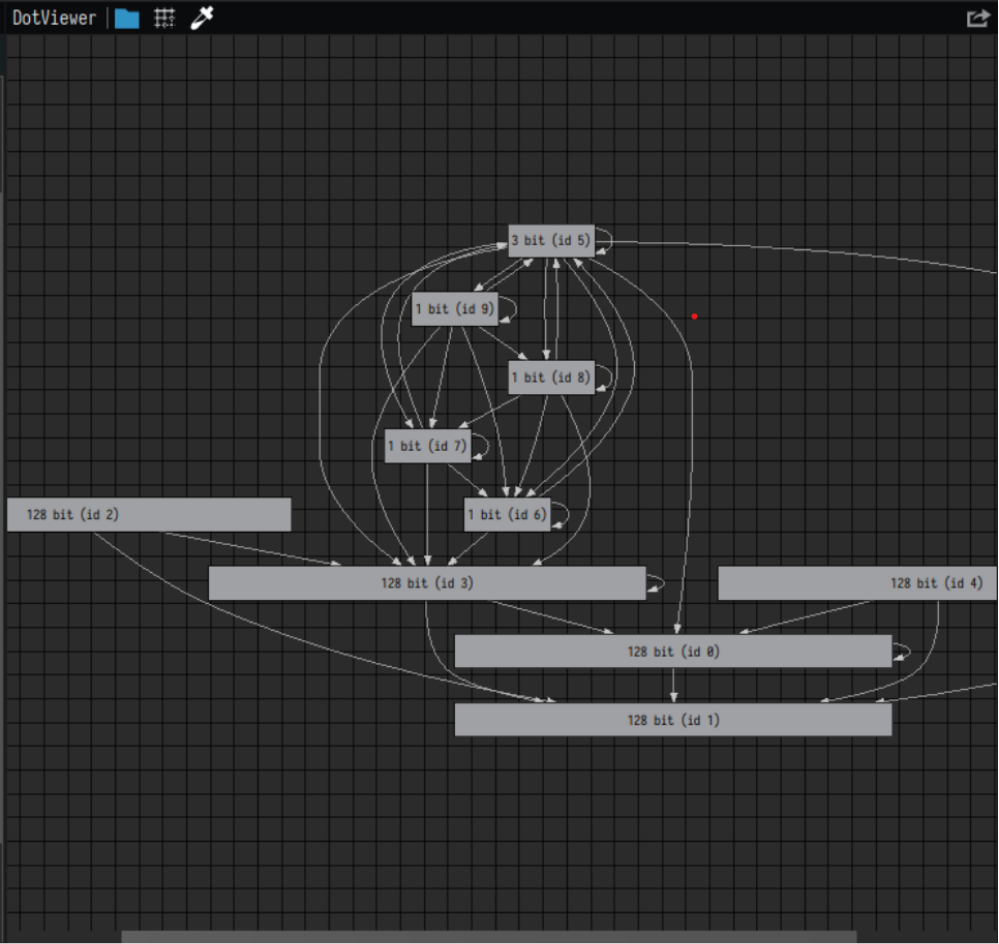
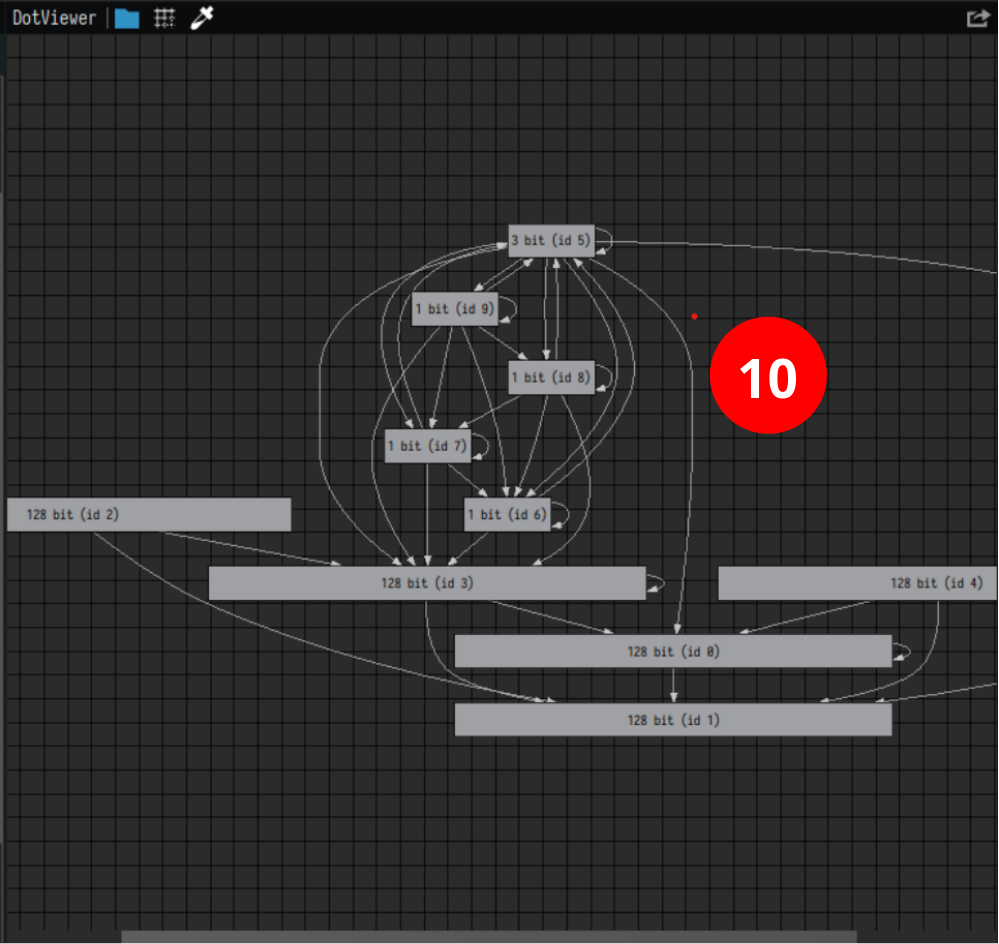
Minor fixes in screenshot CSS style

Changed region(s): [[0.7137, 0.3379, 0.8378, 0.4608]]

diff --git a/documentation/hal_screenshot.html b/documentation/hal_screenshot.html
@@ -34,17 +34,22 @@
     counter-increment: item;
     margin-bottom: 8px;
   }
-  li:before {
-    margin-right: 10px;
+  li::before {
     content: counter(item);
+    margin-right: 10px;
+
     background: red;
-    font-weight: 900;
-    border-radius: 100%;
     color: white;
-    width: 2.2em;
-    height: 2.2em;
-    text-align: center;
-    display: inline-block;
+    font-weight: 1600;
+
+    width: 1.8em;
+    height: 1.8em;
+    border-radius: 50%;
+
+    font-size: 2.2em;
+    display: inline-flex;
+    align-items: center;
+    justify-content: center;
   }
 </style>
 </head>
